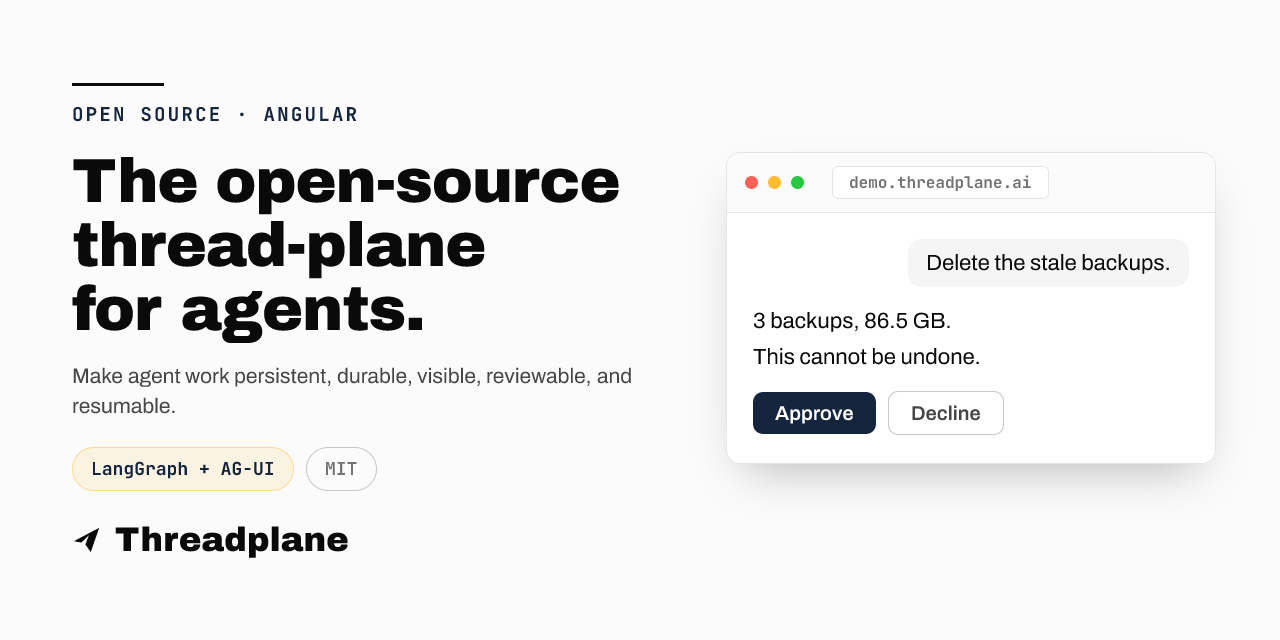
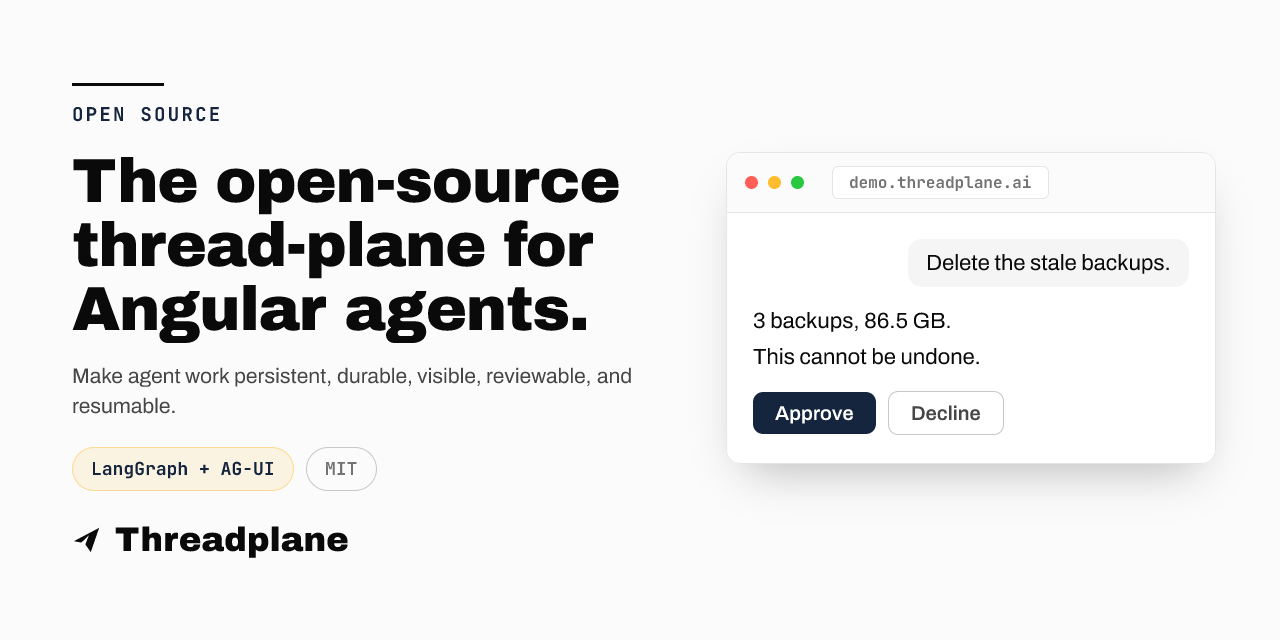
fix(website): drop the duplicated Angular eyebrow from both social cards

Changed region(s): [[0.0625, 0.3438, 0.4688, 0.5625], [0.1875, 0.1562, 0.2812, 0.1875]]

diff --git a/apps/website/src/app/opengraph-image.tsx b/apps/website/src/app/opengraph-image.tsx
@@ -28,7 +28,7 @@ export const contentType = 'image/png';
 
 /** "LangGraph + AG-UI" — the first proof point is the runtime claim. */
 const RUNTIMES = POSITIONING_PROOF_POINTS[0].label;
-const EYEBROW = 'OPEN SOURCE · ANGULAR';
+const EYEBROW = 'OPEN SOURCE';
 
 /** Describes what the card actually shows, not just the page it links to. */
 export const alt = `${PRIMARY_TAGLINE}. ${HERO_SUBHEAD} Beside the copy, a browser frame shows the product pausing for a human: an agent proposes deleting three backups, with Approve and Decline. Works with ${RUNTIMES}.`;

diff --git a/apps/website/src/app/github-card/route.tsx b/apps/website/src/app/github-card/route.tsx
@@ -32,7 +32,7 @@ export const runtime = 'nodejs';
 export const GITHUB_CARD_SIZE = { width: 1280, height: 640 } as const;
 
 const RUNTIMES = POSITIONING_PROOF_POINTS[0].label;
-const EYEBROW = 'OPEN SOURCE · ANGULAR';
+const EYEBROW = 'OPEN SOURCE';
 
 export async function GET() {
   const fonts = await loadCardFonts({ mono: true });
